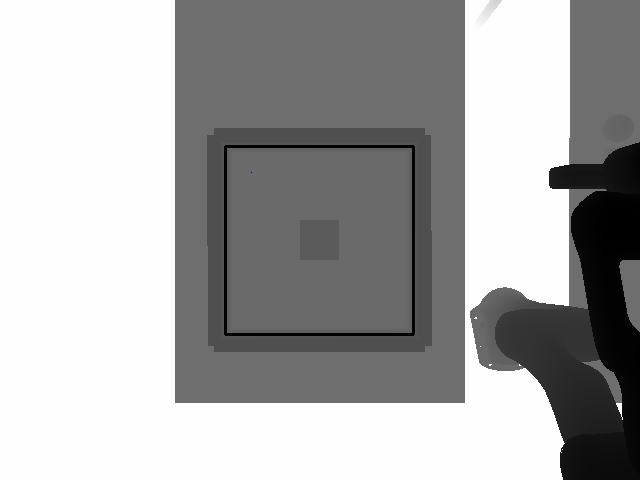
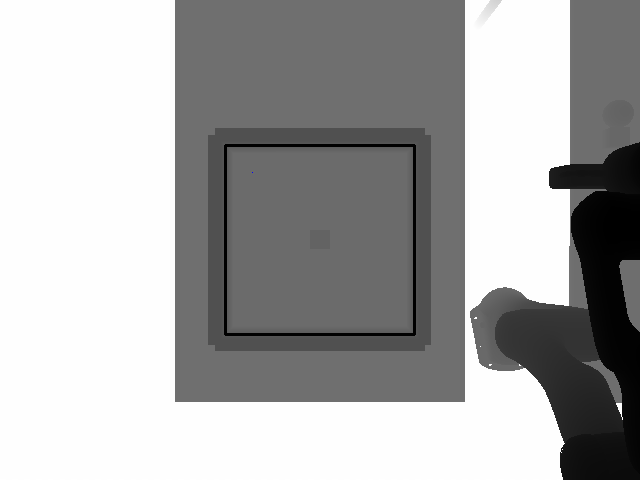
marko

Changed region(s): [[0.375, 0.2812, 0.6562, 0.3125]]

diff --git a/src/box_detection.py b/src/box_detection.py
@@ -255,20 +255,19 @@ def point_order(box: list) -> tuple:
             p4 = point
     return p1, p2, p3, p4
 
-def avg_cell_depth(img: np.array, grid_start: np.array, i: int, j: int, vx: int, vy: int):
-    suma = 0
+def min_cell_depth(img: np.array, grid_start: np.array, i: int, j: int, vx: int, vy: int):
+    minimum = np.max(img)
     ind1 = vx[0]
     ind2 = vy[1]
     vx = vx/vx[0]
     vy = vy/vy[1]
-    num = 1
-    
     for a in range(int(ind1)):
         for b in range(int(ind2)):
             x = grid_start[i, j] + a* vx + b*vy
-            suma = suma + img[int(x[1]), int(x[0])]
-            num = num+1
-    return suma/num
+            y = img[int(x[1]), int(x[0])]
+            if y < minimum and y != 0:
+                minimum = y
+    return minimum
 
 def gaussian_func(M: float, sigma: float, x: float) -> float:
     const = 1/math.sqrt(2*math.pi*sigma**2)
@@ -278,10 +277,8 @@ def gaussian_func(M: float, sigma: float, x: float) -> float:
 def update_grid(grid: np.array, img: np.array, grid_start: np.array, vx: np.array, vy: np.array) -> np.array:
     for i in range(20):
         for j in range(20):
-            avg_depth = avg_cell_depth(img, grid_start, i, j, vx, vy)
-            #print(avg_depth)
-            p = gaussian_func(85, 5, avg_depth) / (1.1* gaussian_func(85, 5, 85))
-            #print(avg_depth, p)
+            min_depth = min_cell_depth(img, grid_start, i, j, vx, vy)
+            p = gaussian_func(100, 2.5, min_depth) / (1.1* gaussian_func(100, 2.5, 100))
             grid[i, j] = grid[i, j] + math.log(p/(1 - p))
     return grid
 
@@ -326,6 +323,8 @@ def placing_algorithm(grid: np.array, d: float, grid_start: np.array, depth_arra
 def main1(depth_array: np.array):
     global grid
     global pab
+    d = 0.05
+    gripper_size = 0.05
     depth = np.copy(depth_array)
     print(depth.shape)
     cv2.normalize(depth, depth, 0, 1, cv2.NORM_MINMAX)
@@ -403,8 +402,8 @@ def main1(depth_array: np.array):
         for j in range(20):
             img1[20*i:20*(i+1), 20*j:20*(j+1)] = int(bel[i, j]*255)
     cv2.imwrite('./src/diplomski/test_slike/bel.png', img1)
-    pab.publish(Float64MultiArray(data = np.array(placing_algorithm(grid, 0.1, grid_start, depth_array, depth))))
-    print(placing_algorithm(grid, 0.1, grid_start, depth_array, depth))
+    pab.publish(Float64MultiArray(data = np.array(placing_algorithm(grid, d + gripper_size, grid_start, depth_array, depth))))
+    print(placing_algorithm(grid, d + gripper_size, grid_start, depth_array, depth))
 
        
 def image_callback(data):
